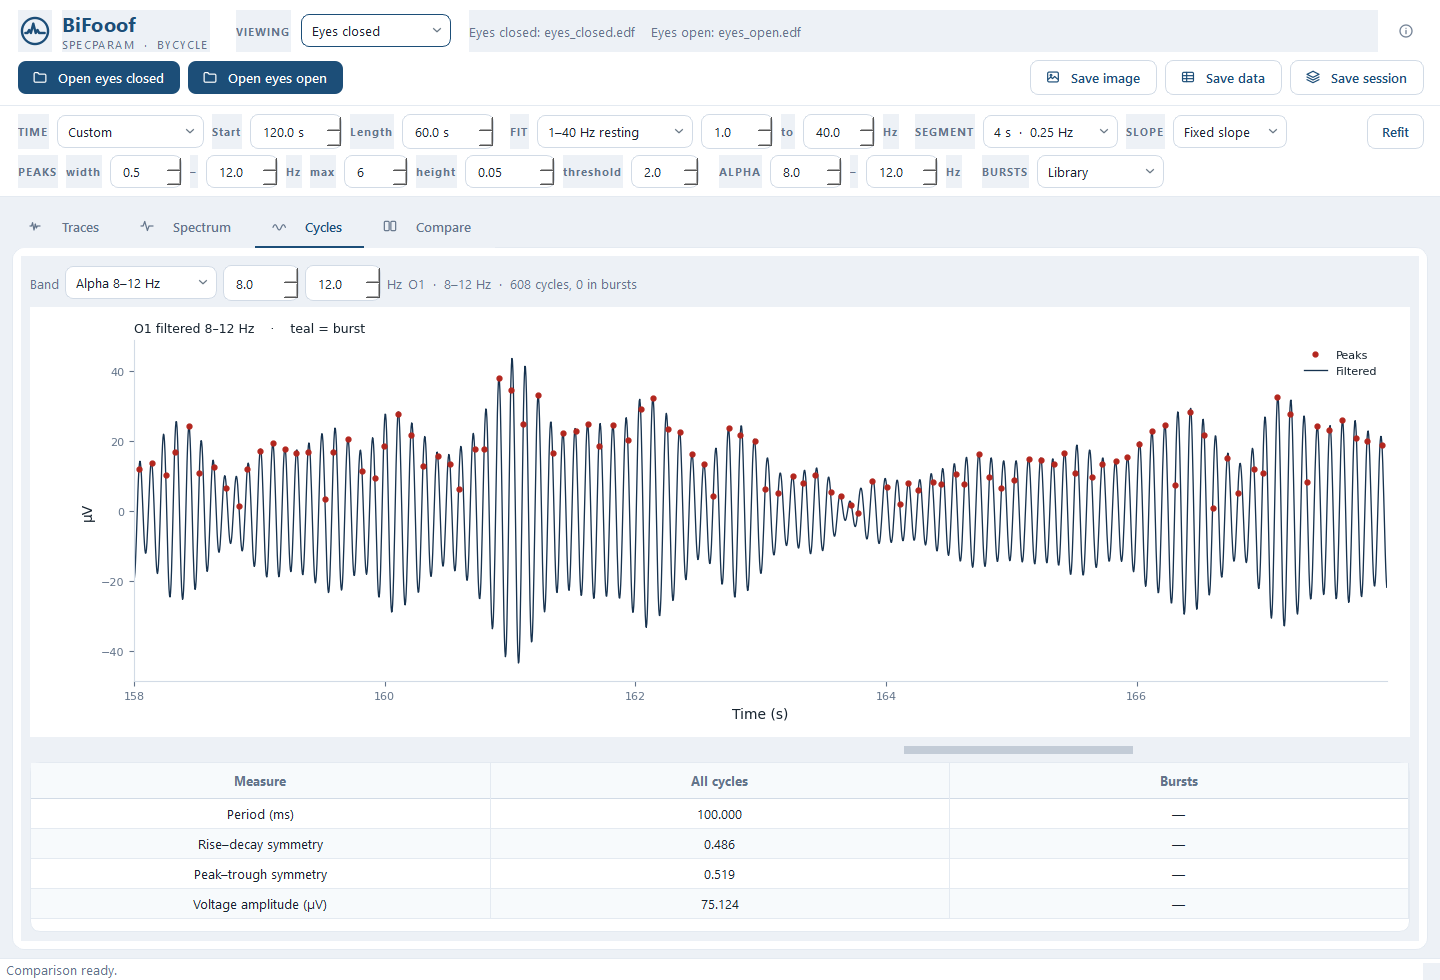
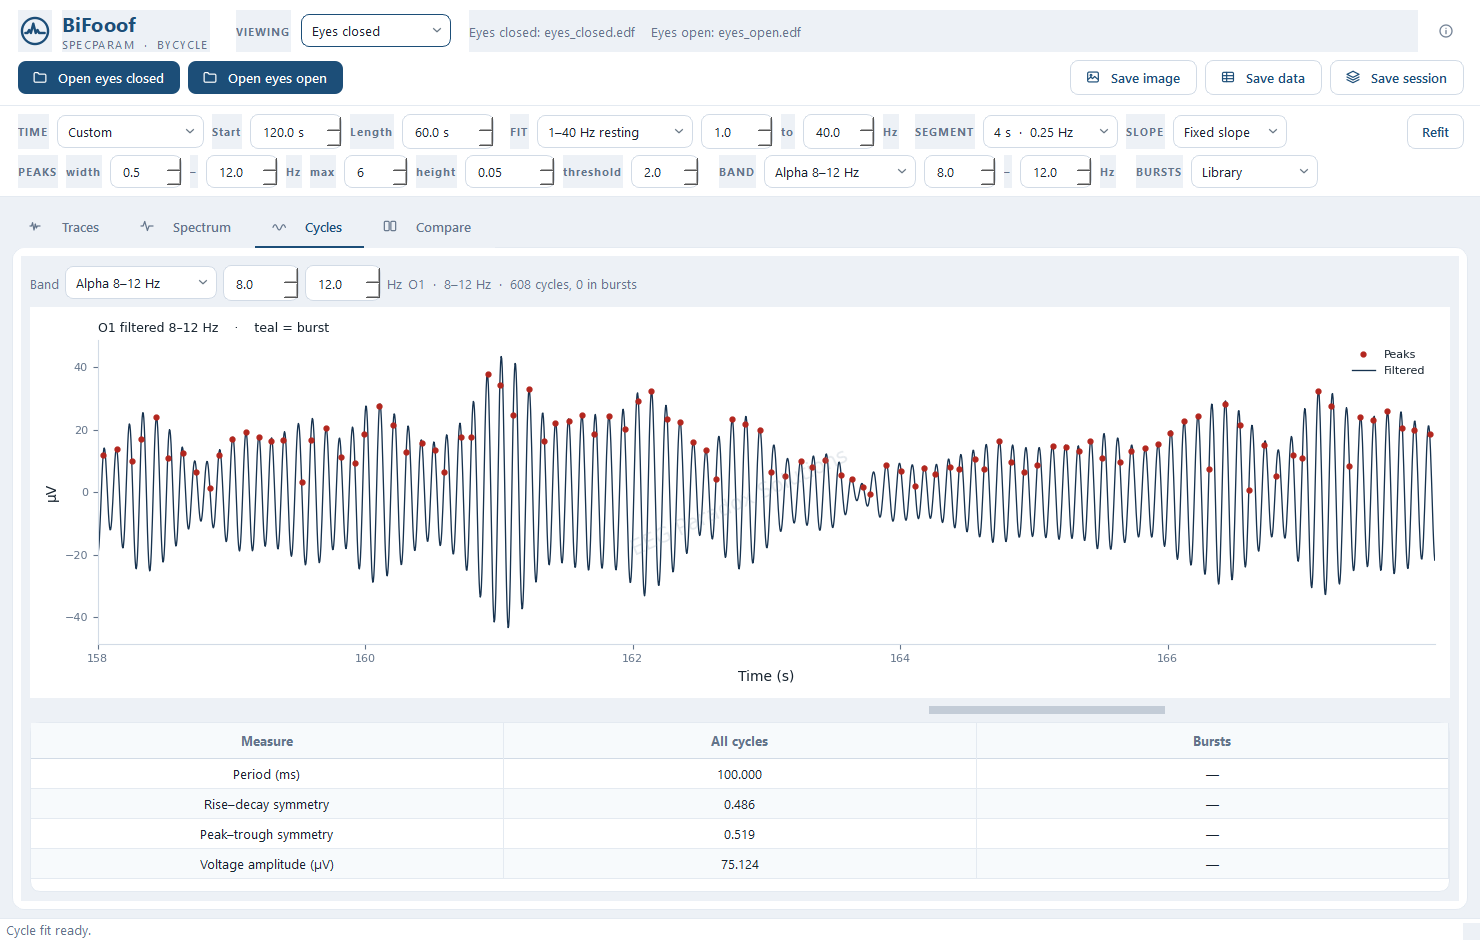
Update the README so the text and screenshots match the current window.
The pictures show the shared band and the watermark, and the page separates the fit bar from the band.

diff --git a/README.md b/README.md
@@ -2,9 +2,23 @@
 
 Windows app for specparam (FOOOF) and bycycle on EEG.
 
-Open an EDF, WinEEG `.eeg`, BrainVision, EEGLAB, FIF, CNT, CSV, or JSON file. BXS files need `bxs2edf.exe` on the machine. Load eyes-closed and eyes-open together and the comparison view puts the two spectra side by side.
+Open an EDF, WinEEG `.eeg`, BrainVision, EEGLAB, FIF, CNT, CSV, or JSON file. BXS files need `bxs2edf.exe` on the machine. Open an eyes-closed recording and an eyes-open recording together and the comparison view puts the two spectra side by side.
 
-specparam fits a chosen stretch of the recording, 1–40 Hz by default, and reports the aperiodic slope and the peaks. The fit bar can switch that to the published 2–40 Hz resting range, a narrower 3–30 or 2–20 Hz band, a 2, 4, or 8 second Welch segment, and a fixed slope or a knee. Peak width, count, height, and the 2 SD peak threshold are on that bar too. bycycle takes the channel you pick and finds the waves in one band. The band on the fit bar is alpha, 8–12 Hz, by default, and it can be delta, theta, beta, gamma, or a range you type. That one band is what the cycle page and the eyes-closed versus eyes-open reactivity both use. Burst detection can stay on the library rule or use the resting-alpha and paper-alpha amplitude rules, which still apply to whichever band is selected. The trace and cycle pages scroll. A Refit uses the window you set; the scrollbar does not change the fit.
+## Fit bar
+
+specparam fits a stretch of the recording and reports the aperiodic slope and the peaks. The default is the whole file, 1–40 Hz, a 4 second Welch segment (0.25 Hz bins), and a fixed slope.
+
+The fit bar can switch that to the published 2–40 Hz eyes-open / eyes-closed range, a narrower 3–30 or 2–20 Hz band, a 2 or 8 second segment, and a knee instead of a fixed slope. Peak width, count, height, and the 2 SD peak threshold are on that bar too.
+
+**Refit** runs specparam and bycycle on the time window you set. The scrollbars on the trace and cycle pages only move the picture.
+
+## Band
+
+Alpha, 8–12 Hz, is the default. The same control is delta 1–4, theta 4–8, beta 13–30, gamma 30–45, or any range you type. The Cycles page and the eyes-closed versus eyes-open reactivity both follow it. Changing the band does not refit the spectrum.
+
+Burst detection can stay on the library rule, or use the resting-alpha and paper-alpha amplitude rules. Those rules still apply to whichever band is selected.
+
+Plots in the window and saved images carry an EEG Paradox Solutions watermark.
 
 ## Screenshots
 
@@ -33,6 +47,8 @@ python -m bifooof run FILE --condition ec --channel O1 --out bifooof-out
 python -m bifooof compare --ec EC_FILE --eo EO_FILE --channel O1 --out bifooof-out
 python -m bifooof formats
 ```
+
+`--band` sets the cycle band: `delta`, `theta`, `alpha`, `beta`, `gamma`, or a range such as `8-12`. `--alpha LOW HIGH` sets the reactivity peak. In the window those two stay on the same band.
 
 ## One file
 
